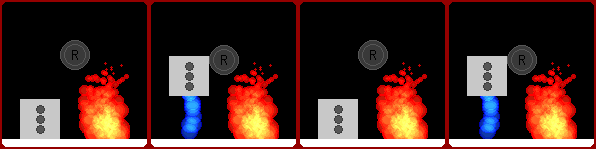
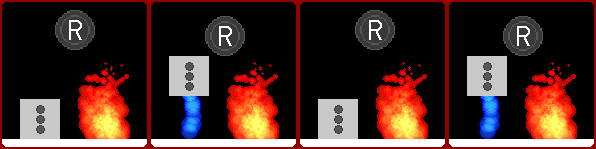
画像とかいろいろ追加

diff --git a/Tutorial.cpp b/Tutorial.cpp
@@ -10,6 +10,7 @@ Tutorial::Tutorial() {
 	LoadDivGraph("resource/help.png", 2, 2, 1, 128, 64, help);
 	tutorial5 = LoadGraph("resource/tutorial5.png");
 	tutorial6 = LoadGraph("resource/tutorial6.png");
+	tutorial7 = LoadGraph("resource/tutorial7.png");
 }
 
 Tutorial::~Tutorial() {}
@@ -23,12 +24,13 @@ void Tutorial::CountTimer() {
 
 void Tutorial::DrawTutorial(int serect, int scroll,int isRescued) {
 	if (serect == 0) {
-		DrawGraph(100 - scroll, 500, tutorial1[timer / 50], true);
-		DrawGraph(500 - scroll, 500, tutorial2[timer / 50], true);
+		DrawGraph(100 - scroll, 450, tutorial1[timer / 50], true);
+		DrawGraph(500 - scroll, 450, tutorial2[timer / 50], true);
 		DrawGraph(1280 - scroll, 800, tutorial3[timer / 50], true);
-		DrawGraph(2150 - scroll, 400, tutorial4[timer / 50], true);
-		DrawGraph(800 - scroll, 500, tutorial5, true);
+		DrawGraph(2150 - scroll, 500, tutorial4[timer / 50], true);
+		DrawGraph(800 - scroll, 450, tutorial5, true);
 		DrawGraph(1950 - scroll, 500, tutorial6, true);
+		DrawRotaGraph2(-100 - scroll, -110,0,0,2.5,0, tutorial7, true);
 		DrawRotaGraph2(2100 - scroll, 120,0,0,1.8,0, help[isRescued], true);
 	}
 }

diff --git a/Map.cpp b/Map.cpp
@@ -24,7 +24,7 @@ int Map::Map1(int y, int x) {
 		{1,1,1,1,1,1,1,1,1,1,1,1,1,1,1,1,1,1,1,1,1,0,0,0,0,0,0,0,0,0,0,0,0,0,0,0,0,0,0,0,1,1,1,1,1,1,1,1,1,1},
 		{1,1,1,1,1,1,1,1,1,1,1,1,1,1,1,1,1,1,1,1,1,0,0,0,0,0,0,0,0,0,0,0,0,0,0,0,0,0,1,1,1,1,1,1,1,1,1,1,1,1},
 		{1,1,1,1,1,1,1,1,1,1,1,1,1,1,1,1,1,1,1,1,1,0,0,0,0,0,0,0,0,0,0,0,0,0,0,0,1,1,1,1,1,1,1,1,1,1,1,1,1,1},
-		{1,1,1,1,1,1,1,1,1,1,1,1,1,1,1,1,1,1,1,1,1,0,0,0,0,0,0,0,0,0,0,0,0,0,1,1,1,1,1,1,1,1,1,1,1,1,1,1,1,1},
+		{1,0,0,0,0,0,0,0,0,0,0,0,0,0,0,0,0,0,0,0,0,0,0,0,0,0,0,0,0,0,0,0,0,0,1,1,1,1,1,1,1,1,1,1,1,1,1,1,1,1},
 		{1,0,0,0,0,0,0,0,0,0,0,0,0,0,0,0,0,0,0,0,0,0,0,0,0,0,0,0,0,0,0,0,0,0,0,0,0,0,1,1,1,1,1,1,1,1,1,1,1,1},
 		{1,0,0,0,0,0,0,0,0,0,0,0,0,0,0,0,0,0,0,0,0,0,0,0,0,0,2,1,1,0,0,0,0,0,0,0,0,0,1,1,1,1,1,1,1,1,1,1,1,1},
 		{1,0,0,0,0,0,0,0,0,0,0,0,0,0,0,0,0,0,0,0,0,0,0,0,0,2,1,1,1,1,1,0,0,0,0,0,0,0,1,1,1,1,1,1,1,1,1,1,1,1},

diff --git a/Tutorial.h b/Tutorial.h
@@ -20,6 +20,7 @@ public:
 	int tutorial4[4];
 	int tutorial5;
 	int tutorial6;
+	int tutorial7;
 	int help[2];
 };
 
